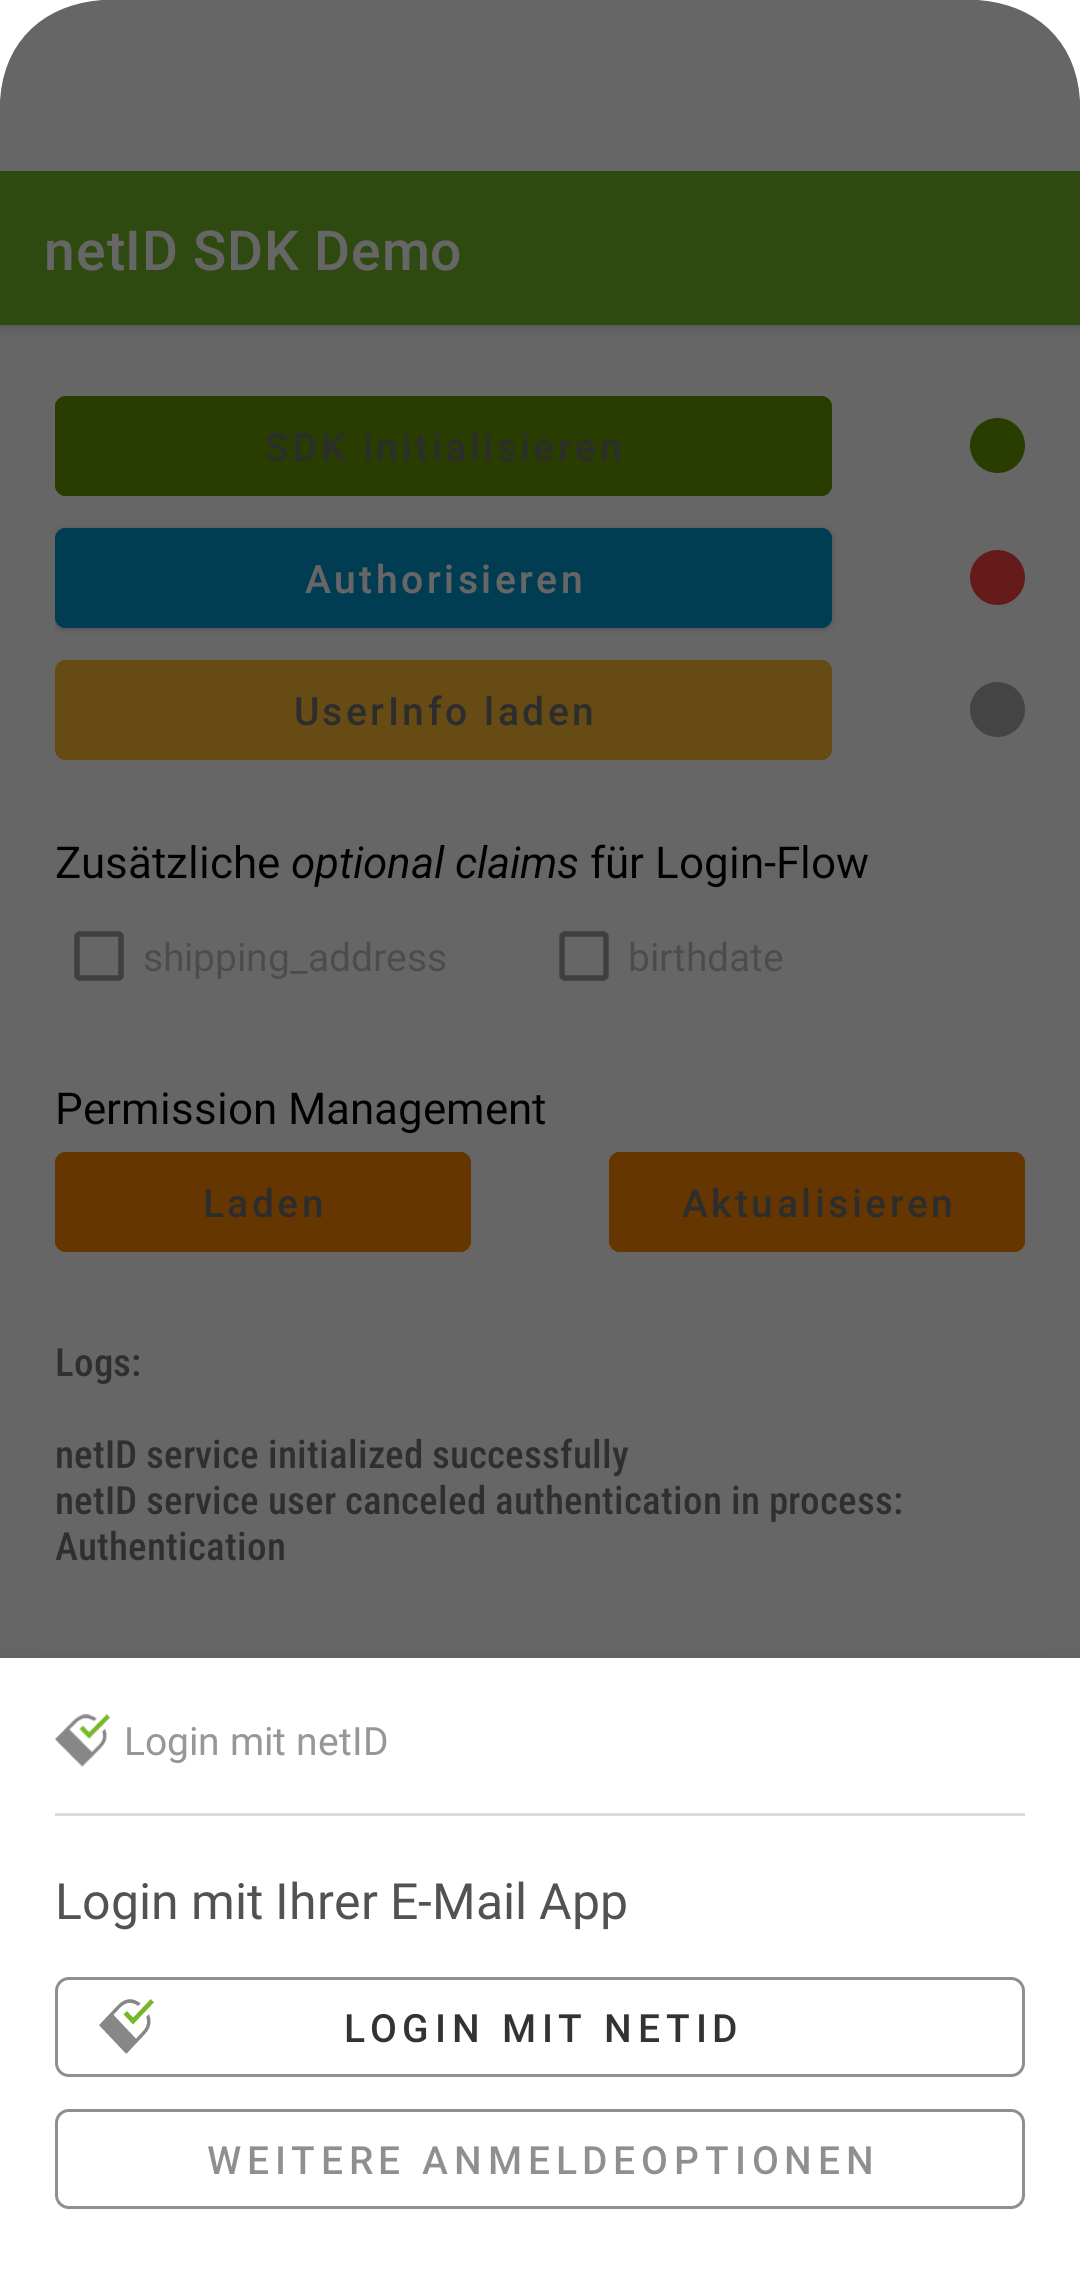
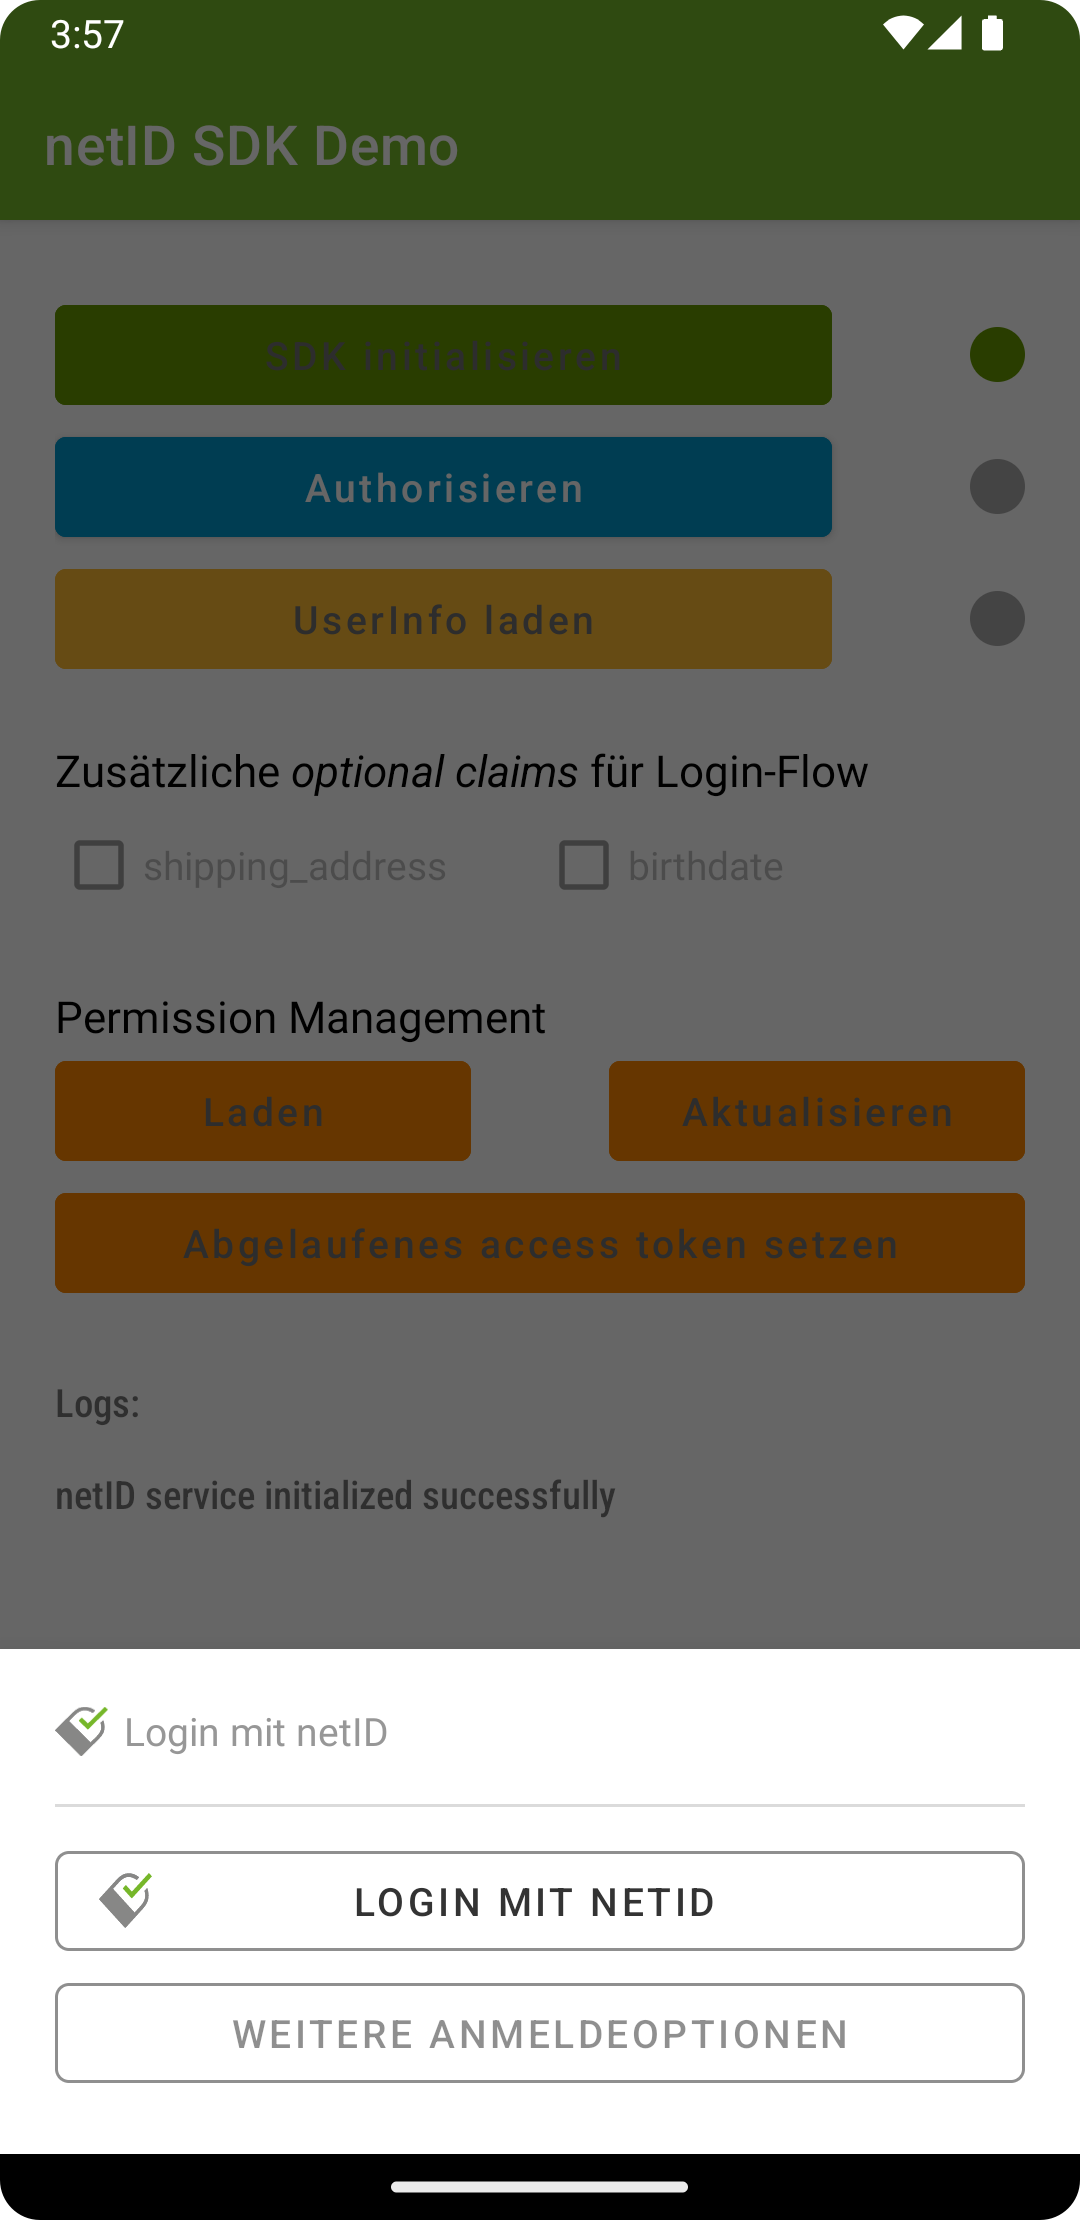
added documentation and fixed tests

diff --git a/app/src/androidTest/java/de/netid/mobile/sdk/example/ExampleInstrumentedTest.kt b/app/src/androidTest/java/de/netid/mobile/sdk/example/ExampleInstrumentedTest.kt
@@ -138,11 +138,11 @@ class ExampleInstrumentedTest {
         }
 
         val email = device.findObject(selector.resourceId("email"))
-        email.text = this.login
+        email.setText(this.login)
         device.findObject(selector.resourceId("proceed")).click()
 
         val password = device.findObject(selector.resourceId("password"))
-        password.text = this.password
+        password.setText(this.password)
         device.findObject(selector.resourceId("login-submit")).click()
 
         device.findObject(selector.resourceId("approve")).click()
@@ -160,6 +160,53 @@ class ExampleInstrumentedTest {
         onView(withId(R.id.activityMainButtonPermissionRead)).perform(click())
         sleep(2000)
         assert(findInLog("netID service permission - fetch failed with error"))
+
+        // At the end, we end the session and test if the "Authorisieren" button is enabled again.
+        onView(withId(R.id.activityMainButtonEndSession)).check(matches(isEnabled()))
+        onView(withId(R.id.activityMainButtonEndSession)).perform(click())
+    }
+
+    @Test
+    // Do complete login flow cycle.
+    fun testSetAccessTokenOkay() {
+        initializeSdkIfNeeded()
+
+        onView(withId(R.id.activityMainButtonInitialize)).check(matches(isNotEnabled()))
+        onView(withId(R.id.activityMainButtonAuthorize)).check(matches(isEnabled()))
+        onView(withId(R.id.activityMainButtonAuthorize)).perform(click())
+
+        onView(withId(android.R.id.button2)).perform(click());
+        onView(withId(de.netid.mobile.sdk.R.id.fragmentAuthorizationButtonAgreeAndContinue)).perform(click())
+
+        val device = UiDevice.getInstance(InstrumentationRegistry.getInstrumentation())
+        val selector = UiSelector()
+        val link = device.findObject(selector.resourceId("edit"))
+        if (link.exists()) {
+            link.click()
+        }
+
+        val email = device.findObject(selector.resourceId("email"))
+        email.setText(this.login)
+        device.findObject(selector.resourceId("proceed")).click()
+
+        val password = device.findObject(selector.resourceId("password"))
+        password.setText(this.password)
+        device.findObject(selector.resourceId("login-submit")).click()
+
+        device.findObject(selector.resourceId("approve")).click()
+        sleep(2000)
+
+        onView(withId(R.id.activityMainButtonAuthorize)).check(matches(isNotEnabled()))
+        assert(findInLog("Access Token:"))
+
+        onView(withId(R.id.activityMainButtonSetAccessToken)).check(matches(isEnabled()))
+        onView(withId(R.id.activityMainButtonSetAccessToken)).perform(click())
+        sleep(2000)
+
+        onView(withId(R.id.activityMainButtonUserInfo)).check(matches(isEnabled()))
+        onView(withId(R.id.activityMainButtonUserInfo)).perform(click())
+        sleep(2000)
+        assert(findInLog("netID service user info - fetch failed: UnauthorizedClient, UserInfo"))
 
         // At the end, we end the session and test if the "Authorisieren" button is enabled again.
         onView(withId(R.id.activityMainButtonEndSession)).check(matches(isEnabled()))
@@ -186,11 +233,11 @@ class ExampleInstrumentedTest {
         }
 
         val email = device.findObject(selector.resourceId("email"))
-        email.text = this.login
+        email.setText(this.login)
         device.findObject(selector.resourceId("proceed")).click()
 
         val password = device.findObject(selector.resourceId("password"))
-        password.text = this.password
+        password.setText(this.password)
         device.findObject(selector.resourceId("login-submit")).click()
         sleep(2000)
 

diff --git a/app/src/main/java/de/netid/mobile/sdk/example/MainActivity.kt b/app/src/main/java/de/netid/mobile/sdk/example/MainActivity.kt
@@ -42,11 +42,7 @@ class MainActivity : AppCompatActivity(), NetIdServiceListener, AdapterView.OnIt
         private const val redirectUri = "https://eunid.github.io/redirectApp"
         private const val claims = "{\"userinfo\":{\"email\": {\"essential\": true}, \"email_verified\": {\"essential\": true}}}"
 
[1 lines of base64/hex data omitted]
-            "..-fawL2Eo8FwU10fw.e5sv6xY5frmWPh8wUsrZD3HPfYgBtwDK3IXrmCeRiNyca8XIiWvPEMp_2mSBh7JjChExatir6lLttBbOZuekkVesT7BmGITq8g" +
[1 lines of base64/hex data omitted]
-            "wpPBXCHtm03dUtpyfLVzwwSg4GnjaJ9Y4TCw1ocxGTc8DtJ6YaGknuixK1wy3ZiU7h6M-r18yBQf99rMUcR96lz42bhbTjfFnHLpszHeJv5bMrWGJEkob" +
-            "dDly13UnXEmzbP1iZjxRfUy-3Xi_.-S_i_CsstgFS2RvO7l0o9w"
+        private const val INVALID_ACCESS_TOKEN = "<INSERT_EXPIRED_TOKEN_HERE>"
 
         // Using default text / icon
         private val permissionLayerConfig = null

diff --git a/NetIdMobileSdk/src/main/java/de/netid/mobile/sdk/appauth/AppAuthManagerImpl.kt b/NetIdMobileSdk/src/main/java/de/netid/mobile/sdk/appauth/AppAuthManagerImpl.kt
@@ -31,6 +31,7 @@ import org.json.JSONException
 import org.json.JSONObject
 import java.util.concurrent.locks.ReentrantLock
 
+
 internal class AppAuthManagerImpl(context: Context) : AppAuthManager {
 
     companion object {
@@ -71,8 +72,13 @@ internal class AppAuthManagerImpl(context: Context) : AppAuthManager {
         return authState
     }
 
-    override fun setAccessToken(token: String?) {
-        getAuthState()?.lastTokenResponse?.accessToken = token
+    override fun setAccessToken(accessToken: String?) {
+        val lastTokenResponse = getAuthState()?.lastTokenResponse
+        if (lastTokenResponse != null) {
+            val builder = TokenResponse.Builder(lastTokenResponse.request).setAccessToken(accessToken)
+            val modifiedTokenResponse = builder.build()
+            getAuthState()?.update(modifiedTokenResponse, null)
+        }
     }
 
     /**

diff --git a/NetIdMobileSdk/src/main/java/de/netid/mobile/sdk/api/NetIdService.kt b/NetIdMobileSdk/src/main/java/de/netid/mobile/sdk/api/NetIdService.kt
@@ -388,8 +388,13 @@ object NetIdService : AppAuthManagerListener, AuthorizationFragmentListener,
         }
     }
 
-    fun setAccessToken(token: String?) {
-        appAuthManager.setAccessToken(token)
+    /**
+     * Sets an access token, overwriting the actual token in the SDK.
+     * This makes most sense after initializing the SDK and getting a token.
+     * @param accessToken access token to set, of type ``String``
+     */
+    fun setAccessToken(accessToken: String?) {
+        appAuthManager.setAccessToken(accessToken)
     }
 
     /**

diff --git a/NetIdMobileSdk/src/main/java/de/netid/mobile/sdk/appauth/AppAuthManager.kt b/NetIdMobileSdk/src/main/java/de/netid/mobile/sdk/appauth/AppAuthManager.kt
@@ -62,7 +62,12 @@ internal interface AppAuthManager {
      */
     fun getAccessToken(): String?
 
-    fun setAccessToken(token: String?)
+    /**
+     * Sets an access token, overwriting the actual token in the SDK.
+     * This makes most sense after initializing the SDK and getting a token.
+     * @param accessToken access token to set, of type ``String``
+     */
+    fun setAccessToken(accessToken: String?)
 
     /**
      * Returns the currently available permission token if there is one, null otherwise.

diff --git a/README.md b/README.md
@@ -3,7 +3,7 @@
 ## About
 
 The `netID MobileSDK` facilitates the use of the [netID](https://netid.de) authorization and privacy management services.
-Alongside the SDK, this repository hosts two sample apps, demonstarting the usage of the SDK. The first one is more complete as it demonstrates complete workflows including fetching/setting of additional values and/or user information. The second one is less complex and only demonstrates the basic workflow, if you want to add the different buttons for interacting with the SDK in a more direct way. 
+Alongside the SDK, this repository hosts two sample apps, demonstrating the usage of the SDK. The first one is more complete as it demonstrates complete workflows including fetching/setting of additional values and/or user information. The second one is less complex and only demonstrates the basic workflow, if you want to add the different buttons for interacting with the SDK in a more direct way. 
 
 ## Initialize NetIDService
 
@@ -73,7 +73,7 @@ NetIdService.initialize(netIdConfig, this.applicationContext)
 After the NetIDService has been initialized, subsequent calls to request authorization can be made. 
 In the example app, you are presented with three choices as can be seen in this screenshot.
 
-<img src="images/netIdSdk_android_choose_authFlow.png" alt="netID SDK example app - chosse authFlow" style="width:200px;"/>
+<img src="images/netIdSdk_android_choose_authFlow.png" alt="netID SDK example app - choose authFlow" style="width:200px;"/>
 
 In your own app, you most likely will decide which flow to take without an user interaction. To initiate the authorization process, issue the following call to the NetIDService:
 ```kotlin
@@ -182,6 +182,11 @@ Fetches the permissions object. On success `onFetchPermissions` is called on the
 NetIdService.updatePermissions(this.applicationContext)
 ```
 Updates the permissions object. On success `onUpdatePermissions` is called on the delegate, returning the requested information. Otherwise `onUpdatePermissionsWithError` gets called, returning a description of the error.
+
+```kotlin
+NetIdService.setAccessToken(accessToken)
+```
+This is a testing function, where an external access token can be set. Usefull for testing the different flows. Usually, this function is not used and can be safely ignored.
 
 ## Implementing the NetIdServiceListener
 

diff --git a/CHANGELOG.md b/CHANGELOG.md
@@ -47,7 +47,7 @@ and this project adheres to [Semantic Versioning](https://semver.org/spec/v2.0.0
 - Small refactoring about claims handling
 - Changed icon for close button
 - Some cleanups
-- Make permission erros more transparent
+- Make permission errors more transparent
 - Force use of Chrome for app2web 
 - Be less strict when parsing JSON, ignore unknown claims
 - Hide text about apps when using app2web
